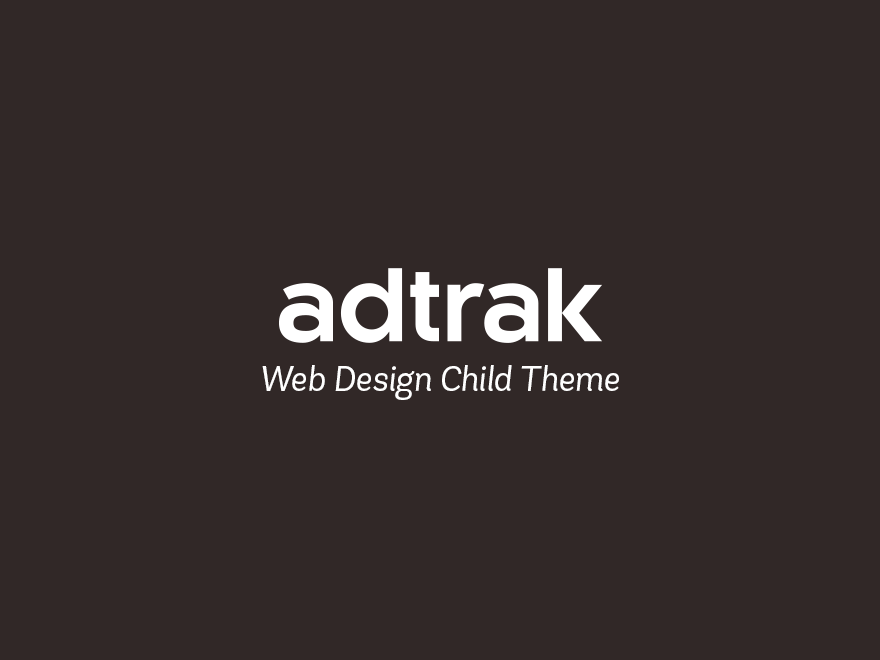
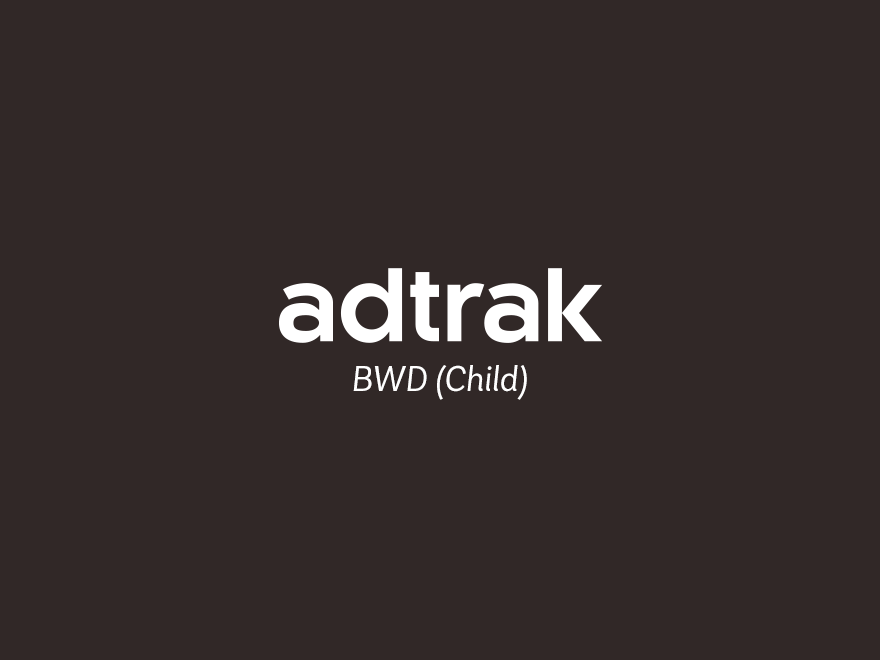
Minor uniformity changes

Changed region(s): [[0.2761, 0.5455, 0.7057, 0.6061]]

diff --git a/wp-content/themes/twd-darth-vader/style.css b/wp-content/themes/twd-darth-vader/style.css
@@ -1,10 +1,10 @@
 /*!
-Theme Name: 	Adtrak: Darth Vader (Child)
+Theme Name: 	Adtrak: TWD Darth Vader (Child)
 Theme URI: 		http://github.com/adtrak-core/boilerplate
 Author: 		Adtrak
 Author URI: 	http://adtrak.co.uk
 Description: 	The standard base theme for Adtrak site development. Features some handy clean up modules, snippets and integrates with all functionality easily.
-Version: 		1.2.0
+Version: 		1.0
 Template:     	adtrak-parent
 Text Domain: 	adtrak
 */

diff --git a/wp-content/themes/adtrak-child/style.css b/wp-content/themes/adtrak-child/style.css
@@ -1,5 +1,5 @@
 /*!
-Theme Name: 	Adtrak: Web Design Child Theme
+Theme Name: 	Adtrak: BWD (Child)
 Theme URI: 		http://github.com/adtrak-core/boilerplate
 Author: 		Adtrak
 Author URI: 	http://adtrak.co.uk
